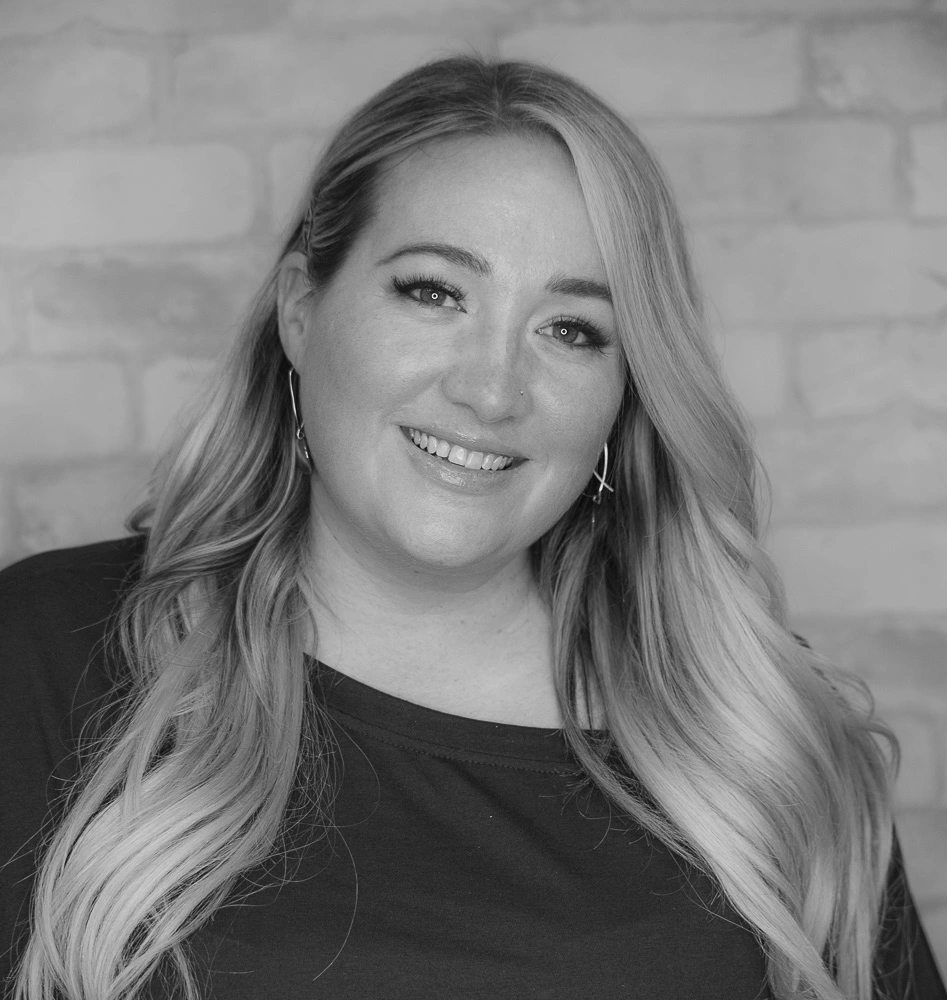
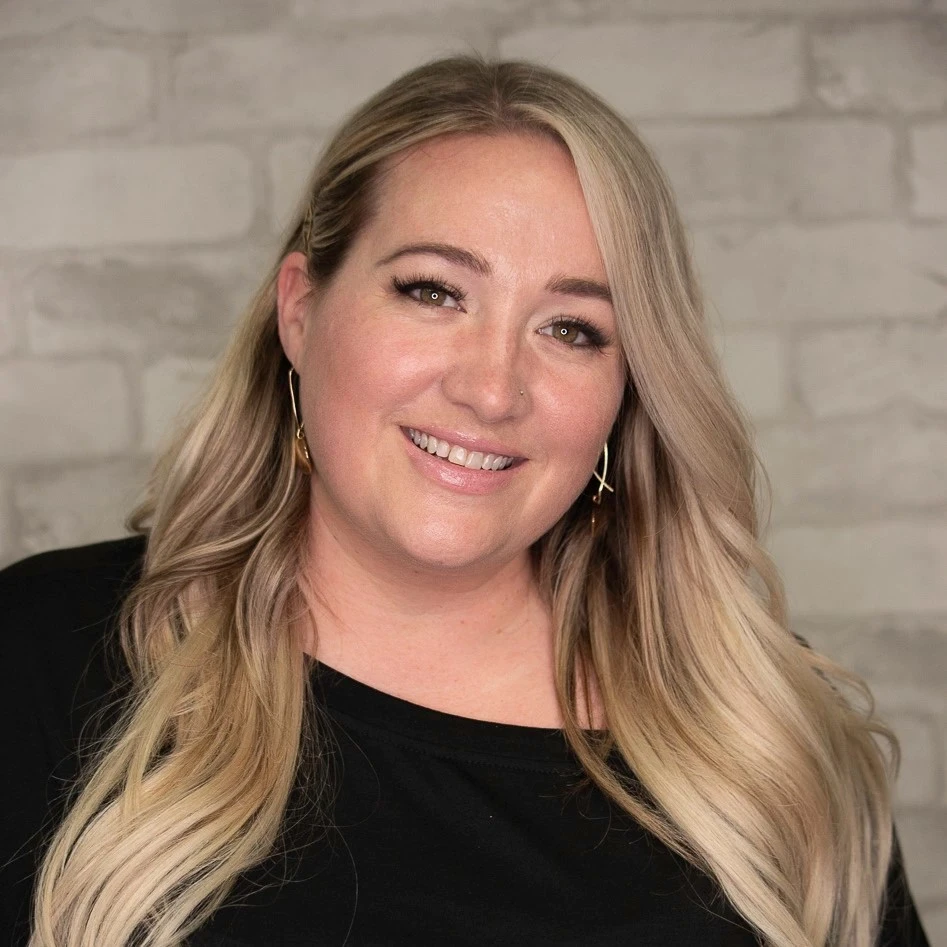
1.2.4: Updated artist headshots to color from black and white

diff --git a/src/constants.ts b/src/constants.ts
@@ -2,8 +2,8 @@ import { HoursOfOp } from "./datatypes";
 
 export namespace Colors {
     export const primary = "#3D5949";
-    export const secondary = "#D2D2D2";
-    export const tertiary = "#E5E5E5";
+    export const secondary = "#D2D2D2";     // CFDED7 or D2D2D2
+    export const tertiary = "#E5E5E5";      // DAE7E1 or E5E5E5
     export const light = "#FFFFFF";
     export const dark = "#212529";
     export const dark_a66 = "#212529AA";
